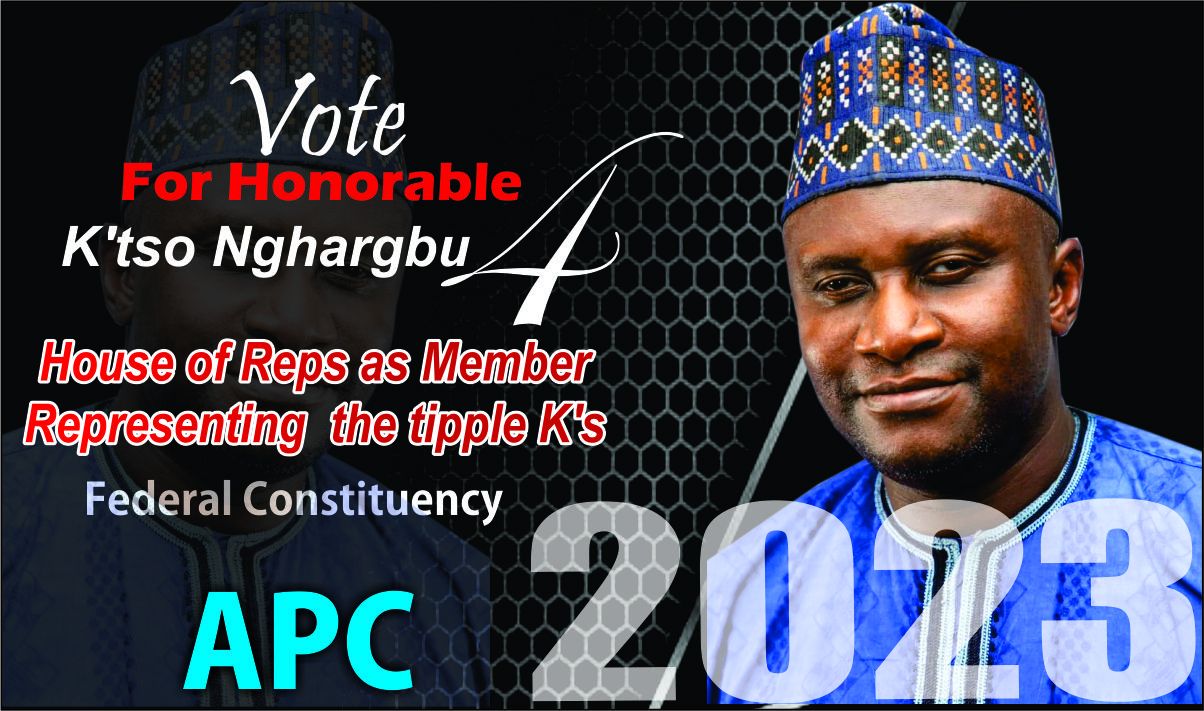
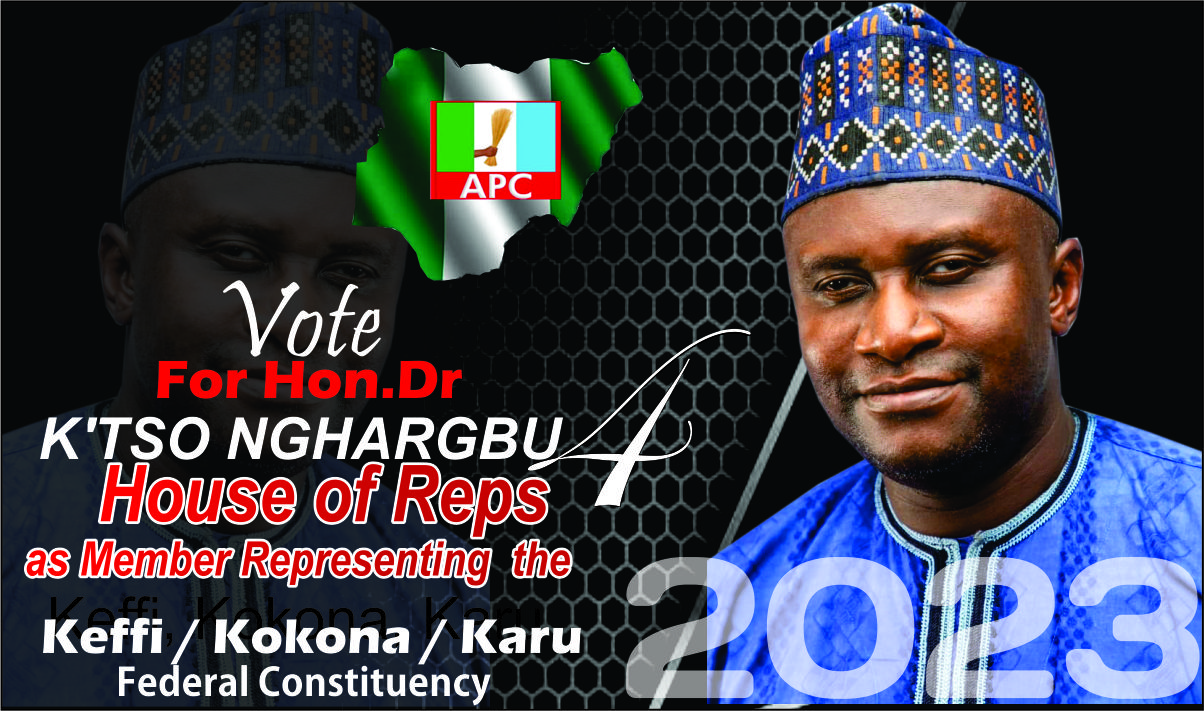
first commit

Changed region(s): [[0.0, 0.0619, 1.0, 0.9902]]

diff --git a/index.html b/index.html
@@ -4,7 +4,7 @@
     <meta charset="UTF-8">
     <meta http-equiv="X-UA-Compatible" content="IE=edge">
     <meta name="viewport" content="width=device-width, initial-scale=1.0">
-    <title>Dr.k'tso Nghargbu</title>
+    <title>Vote Dr.k'tso Nghargbu</title>
     <link rel="stylesheet" href="uikit/css/uikit.min.css" type="text/css">
     <script src="uikit/js/uikit-icons.js"></script>
     <script src="uikit/js/uikit-icons.min.js"></script>
@@ -22,29 +22,36 @@
                            
                         </a>
                     </div>
-                    <marquee>Vote For Honorable <b style="color:green">Dr. K'tso Nghargbu</b> For House of Reps as Member Representing  the <b style="color:red">tripple K's</b> Federal Constituency</marquee>
+                    <marquee style="margin-top: 28px;">Vote For Honorable <b style="color:green">Dr. K'tso Nghargbu</b> For House of Reps as Member Representing  the <b style="color:green">Keffi / Kokona / Karu Federal Constituency</b></marquee>
                 </nav>
             <div class="uk-position-relative uk-visible-toggle uk-light" tabindex="-1" uk-slideshow="animation: push" style="margin-top:-15px">
                 <ul class="uk-slideshow-items">
                     <li>
-                        <img src="photo/2.jpg" alt="" uk-cover >
+                        <img src="photo/ktso3.jpg" alt="" uk-cover >
                         <div class="uk-position-center uk-position-small uk-text-center">
                             <h2 uk-slideshow-parallax="x: 100,-100">A NEW DAWN</h2>
                             <p uk-slideshow-parallax="x: 200,-200">Vote For Honorable Dr. K'tso Nghargbu </p>
                         </div>
                     </li>
                     <li>
-                        <img src="photo/1.jpg" alt="" uk-cover>
+                        <img src="photo/ktso4.jpg" alt="" uk-cover>
                         <div class="uk-position-center uk-position-small uk-text-center">
                             <h1 uk-slideshow-parallax="x: 100,-100">NEW DIRECTION</h1>
                             <p uk-slideshow-parallax="x: 200,-200" >For House of Reps as Member Representing  </p>
                         </div>
                     </li>
                     <li>
+                        <img src="photo/2.jpg" alt="" uk-cover>
+                        <div class="uk-position-center uk-position-small uk-text-center">
+                            <h1 uk-slideshow-parallax="y: -50,0,0; opacity: 1,1,0">NEXT LEVEL</h1>
+                            <p uk-slideshow-parallax="y: 50,0,0; opacity: 1,1,0">The Keffi / Kokona / Karu Federal Constituency</p>
+                        </div>
+                    </li>
+                    <li>
                         <img src="photo/1.jpg" alt="" uk-cover>
                         <div class="uk-position-center uk-position-small uk-text-center">
-                            <h1 uk-slideshow-parallax="y: -50,0,0; opacity: 1,1,0">A NEW BEGINNING</h1>
-                            <p uk-slideshow-parallax="y: 50,0,0; opacity: 1,1,0">The Tipple K's  Federal Constituency</p>
+                            <h1 uk-slideshow-parallax="y: -50,0,0; opacity: 1,1,0">NEXT LEVEL</h1>
+                            <p uk-slideshow-parallax="y: 50,0,0; opacity: 1,1,0">We Believe In next level</p>
                         </div>
                     </li>
                 </ul>
@@ -61,7 +68,7 @@
 
         <ul class="uk-slideshow-items">
             <li>
-                <img src="photo/ktso.jpg" alt="" uk-cover >
+                <img src="photo/ktso2.jpg" alt="" uk-cover >
                 <div class="uk-position-center uk-position-small uk-text-center">
             
                 </div>
@@ -76,6 +83,13 @@
                 <div class="uk-position-center uk-position-small uk-text-center">
                     <h2 uk-slideshow-parallax="y: -50,0,0; opacity: 1,1,0"></h2>
                     <p uk-slideshow-parallax="y: 50,0,0; opacity: 1,1,0"></p>
+                </div>
+            </li>
+            <li>
+                <img src="photo/ktso4.jpg" alt="" uk-cover>
+                <div class="uk-position-center uk-position-small uk-text-center">
+                    <h2 uk-slideshow-parallax="y: -50,0,0; opacity: 1,1,0">YOUR VOTE, YOUR RIGHT</h2>
+                    <p uk-slideshow-parallax="y: 50,0,0; opacity: 1,1,0">We Believe In New Direction</p>
                 </div>
             </li>
         </ul>

diff --git a/README.md b/README.md
@@ -1,1 +1,2 @@
 # Dr.Ktso-Nghargbu
+# Dr.Ktso-Nghargbu
